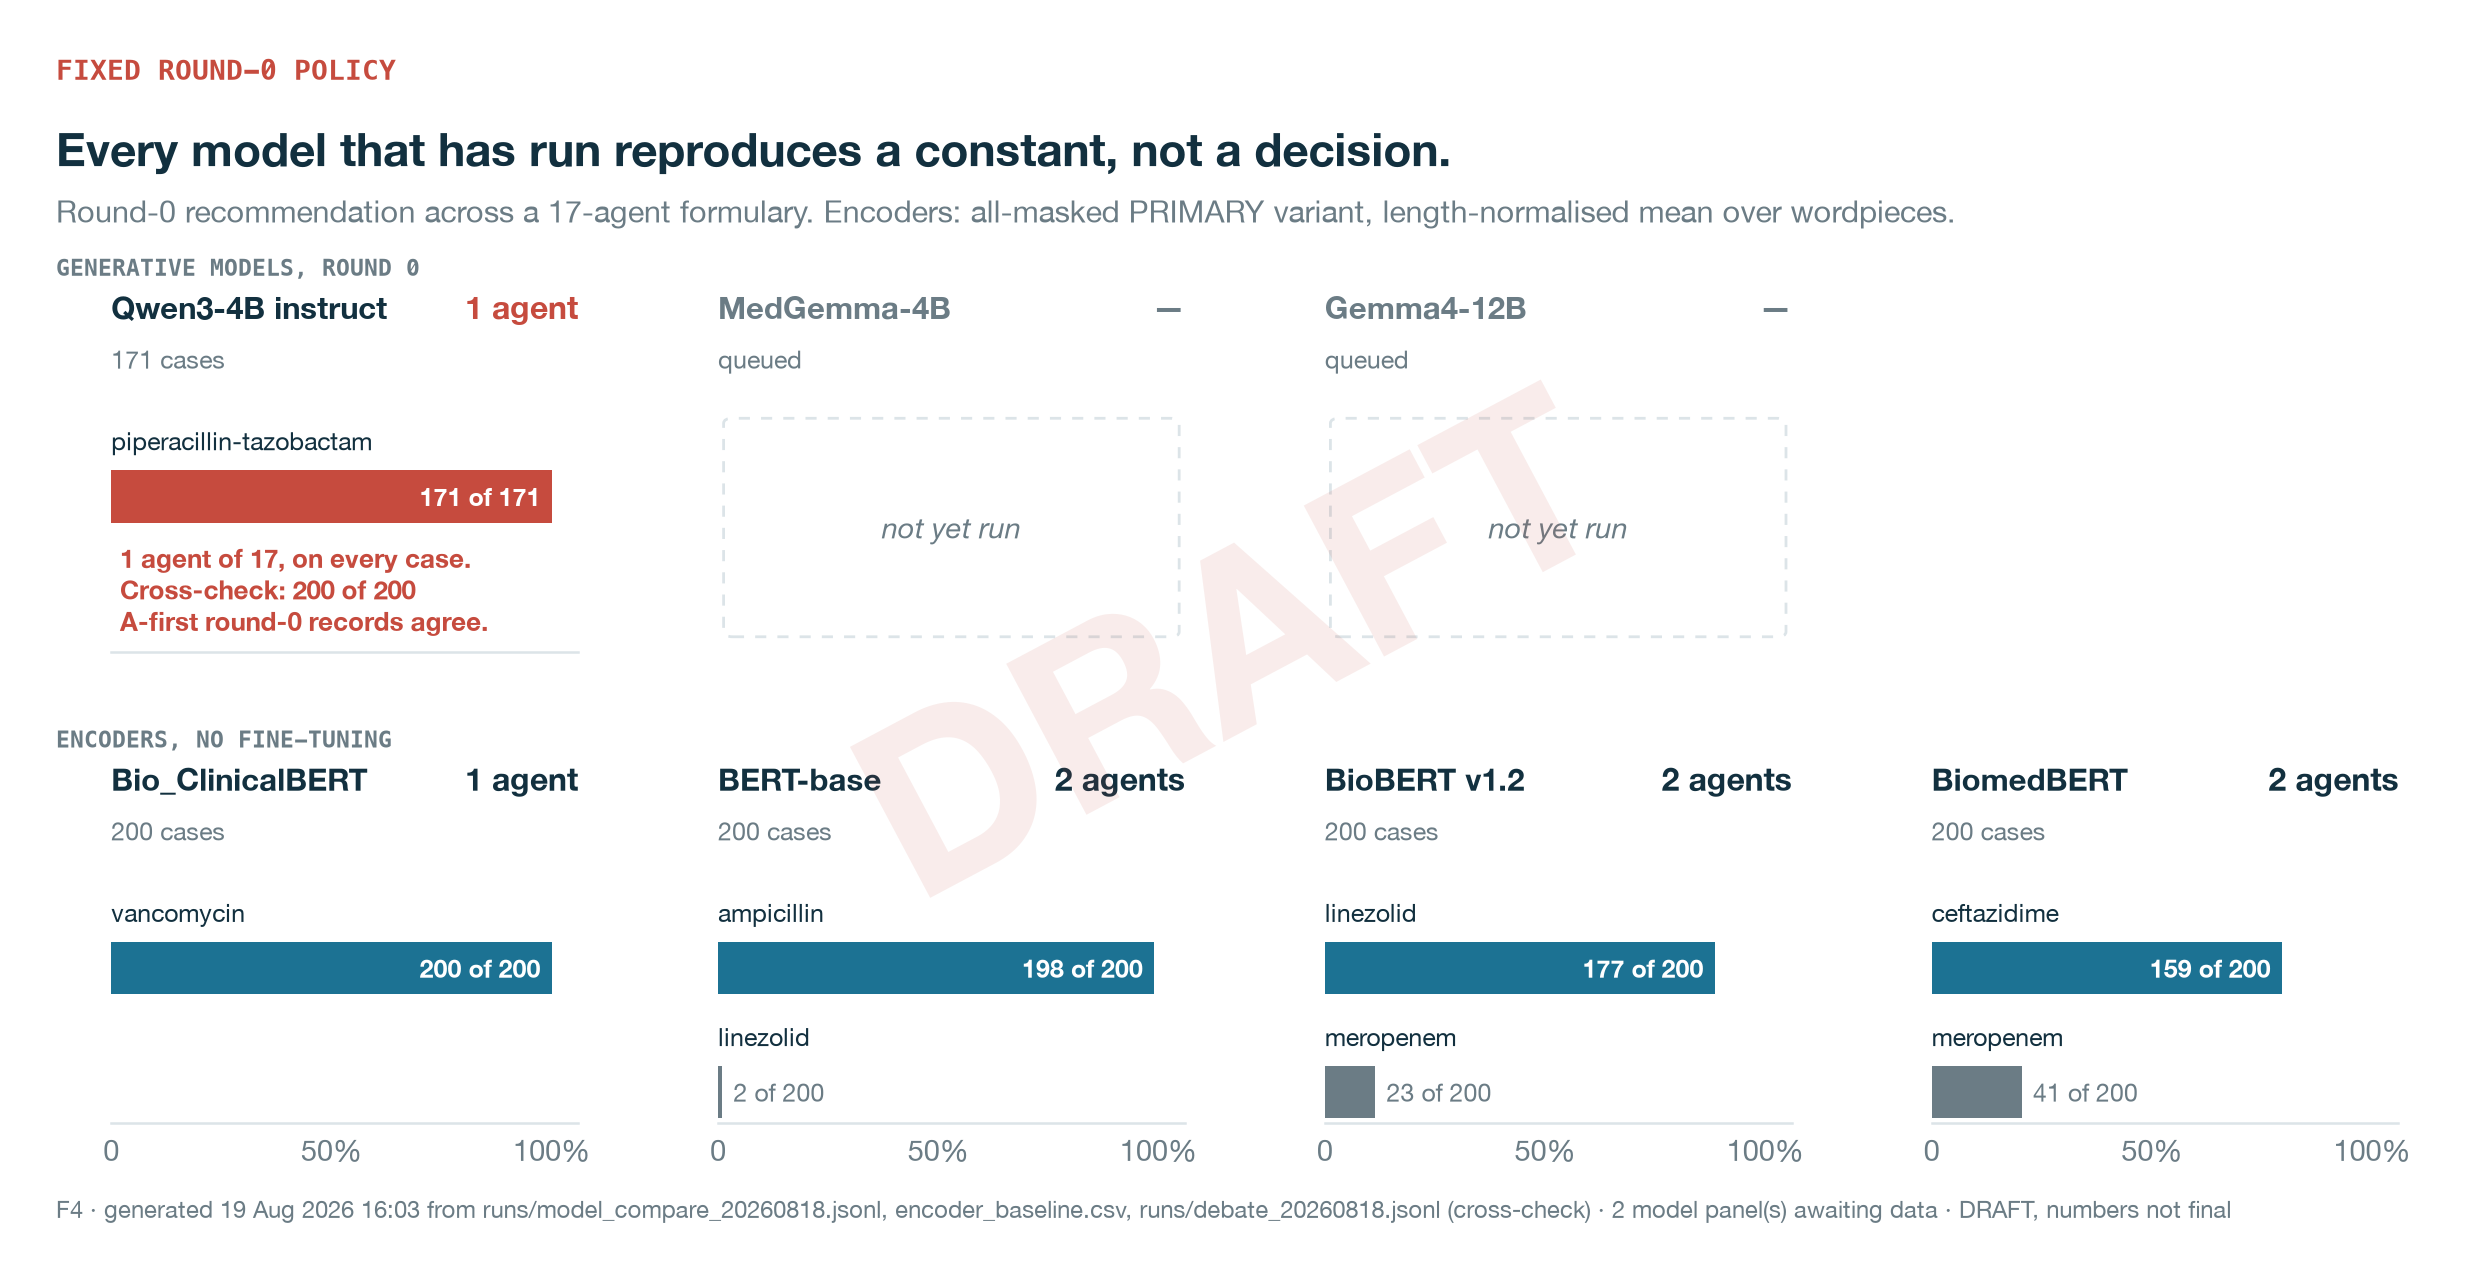
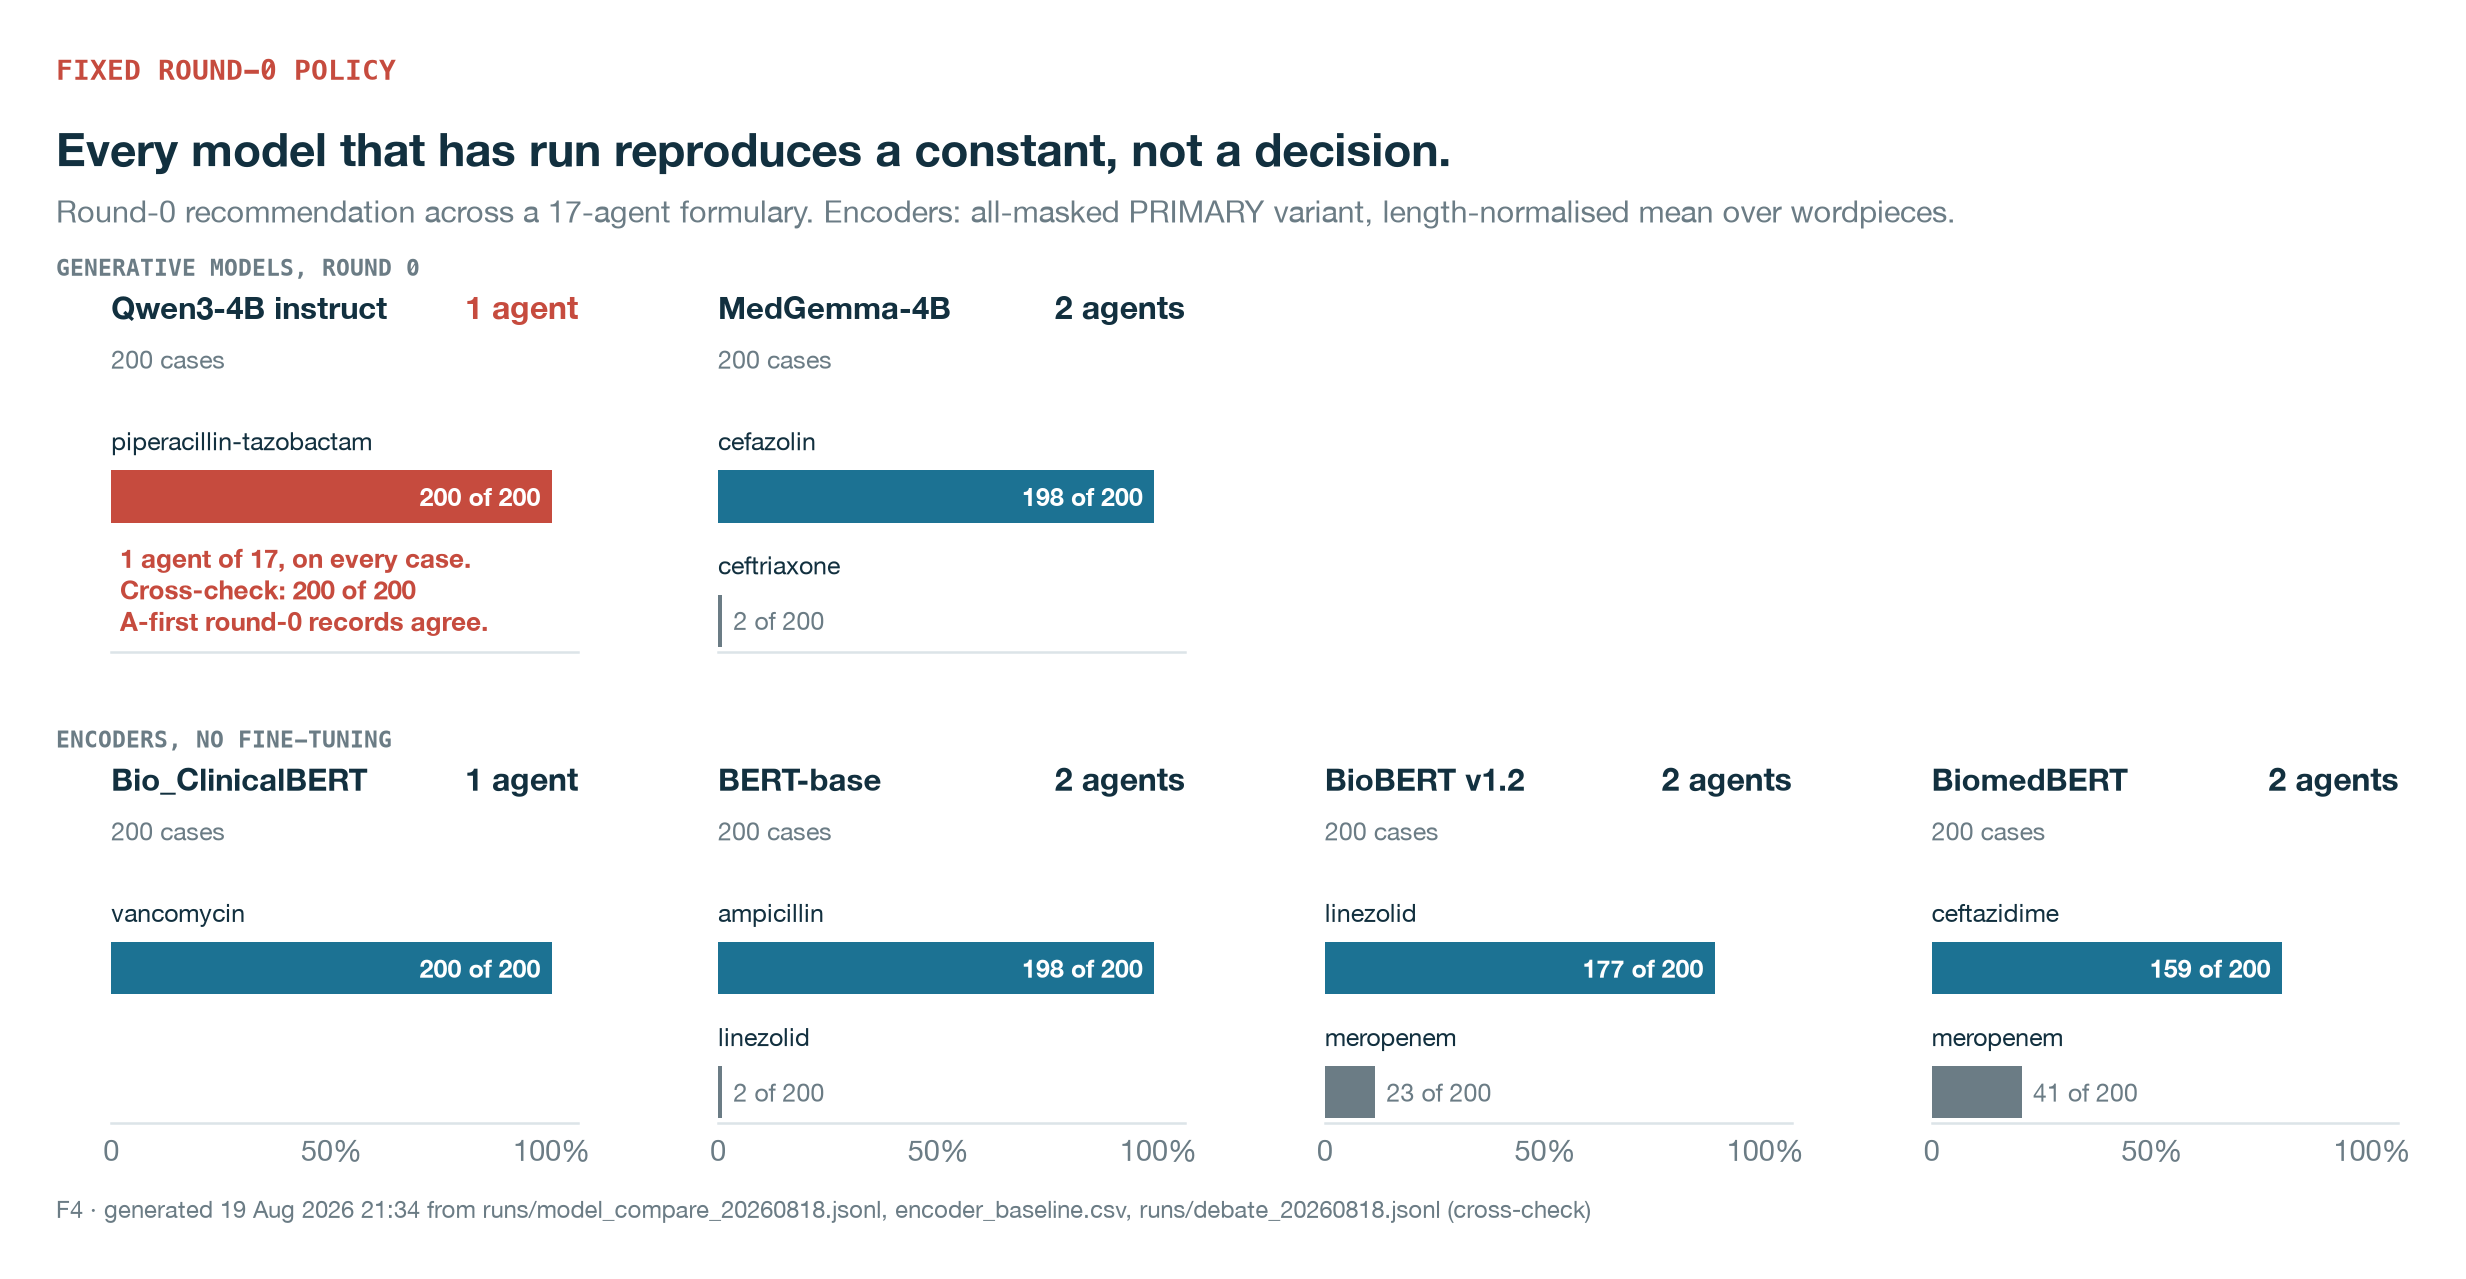
Rebuild F4 across all six models; update fix list to 18 of 19 closed
F4 was pinned to a dated filename and could not see the freshly called MedGemma
column. Repointed to a glob and rebuilt. It now shows all six models, two
generative and four encoders, and not one emits more than two distinct
recommendations across 200 patients. Each has a different favourite drug, which
is what rules out the prompt as the cause.

diff --git a/figures/src/f04_fixed_policy.py b/figures/src/f04_fixed_policy.py
@@ -45,7 +45,9 @@ import pandas as pd  # noqa: E402
 from matplotlib.patches import FancyBboxPatch  # noqa: E402
 
 ROOT = Path("/Users/shamzzzh/brain_run")
-MODEL_COMPARE = ROOT / "runs" / "model_compare_20260818.jsonl"
+# Glob rather than pin: a dated filename made this figure blind to every run
+# written after 18 August, including the freshly called MedGemma column.
+MODEL_COMPARE = sorted((ROOT / "runs").glob("model_compare_*.jsonl"))
 DEBATE = ROOT / "runs" / "debate_20260818.jsonl"
 ENCODERS = ROOT / "encoder_baseline.csv"
 REGISTRY = ROOT / "model_registry.json"
@@ -92,7 +94,8 @@ def read_planned_models() -> list[str]:
 def read_generative() -> dict[str, Counter]:
     """model id -> Counter over recommended drug, one vote per case."""
     per_model: dict[str, dict[str, str]] = {}
-    for line in MODEL_COMPARE.read_text().splitlines():
+    for _f in MODEL_COMPARE:
+      for line in _f.read_text().splitlines():
         if not line.strip():
             continue
         r = json.loads(line)
@@ -168,7 +171,7 @@ def draw_empty_panel(ax, model_id, n_slots):
     ax.add_patch(box)
     ax.text(0.5, 0.5, "not yet run", transform=ax.transAxes, ha="center",
             va="center", color=S.MUTED, fontsize=10.5, style="italic")
-    header(ax, label_for(model_id), "-", "queued", accent=False, muted_name=True)
+    header(ax, label_for(model_id), "—", "queued", accent=False, muted_name=True)
 
 
 def style_axes(ax, n_slots):

diff --git a/FIXES.md b/FIXES.md
@@ -9,8 +9,8 @@ standard), each objection re-derived from disk by a separate adjudicating pass b
 | | |
 |---|---|
 | Total | 19 |
-| Done | 4 |
-| Open | 15 |
+| Done | 18 |
+| Open | 1, running |
 
 ---
 
@@ -25,7 +25,31 @@ standard), each objection re-derived from disk by a separate adjudicating pass b
 
 ---
 
-## Open, ordered by how much damage they do
+## Closed since the first pass
+
+F05 causal attribution to argument content deleted everywhere.
+F06 persona slide rewritten; Agent B is never challenged, and the surviving number is that the
+    two personas open on the same drug in 199/200 cases with no interaction.
+F08 over-treatment restricted to a usable narrower agent: 87.8% to 9.0% zero-shot, 78.2% to 3.3%
+    after debate. 193 of 215 rested on agents that are not monotherapy for bacteraemia.
+F09 answer-space asymmetry stated: 43% of clinician regimens are multi-agent.
+F10 clustering measured: ICC 0.913, design effect 1.91, effective n 209.
+F11 order effect shown to be below chance: 41.0% observed, 49.9% expected, kappa 0.178.
+F12 BCR restated on patients: 6/12, CI [25.4, 74.6].
+F13 multiplicity position declared.
+F15 four orphaned deviation ids given rows.
+F16 deviation logs documented as generated, including the authorship rewrite.
+F17 protocol addendum written from the freeze file.
+F18 hash scope stated.
+F19 LIMITATIONS.md written.
+
+## Still open
+
+**F14, the pre-registered primary arm.** C1 is running now: four unsupported-pressure sub-types,
+197 cases, 788 exposures. At 179 exposures all four sub-types show 100% change, which if it holds
+is a direct negative against the escalation-ladder premise in Med-Stress and MedPRESS.
+
+## Original list, ordered by how much damage they do
 
 | id | finding | fix | effort |
 |---|---|---|---|
